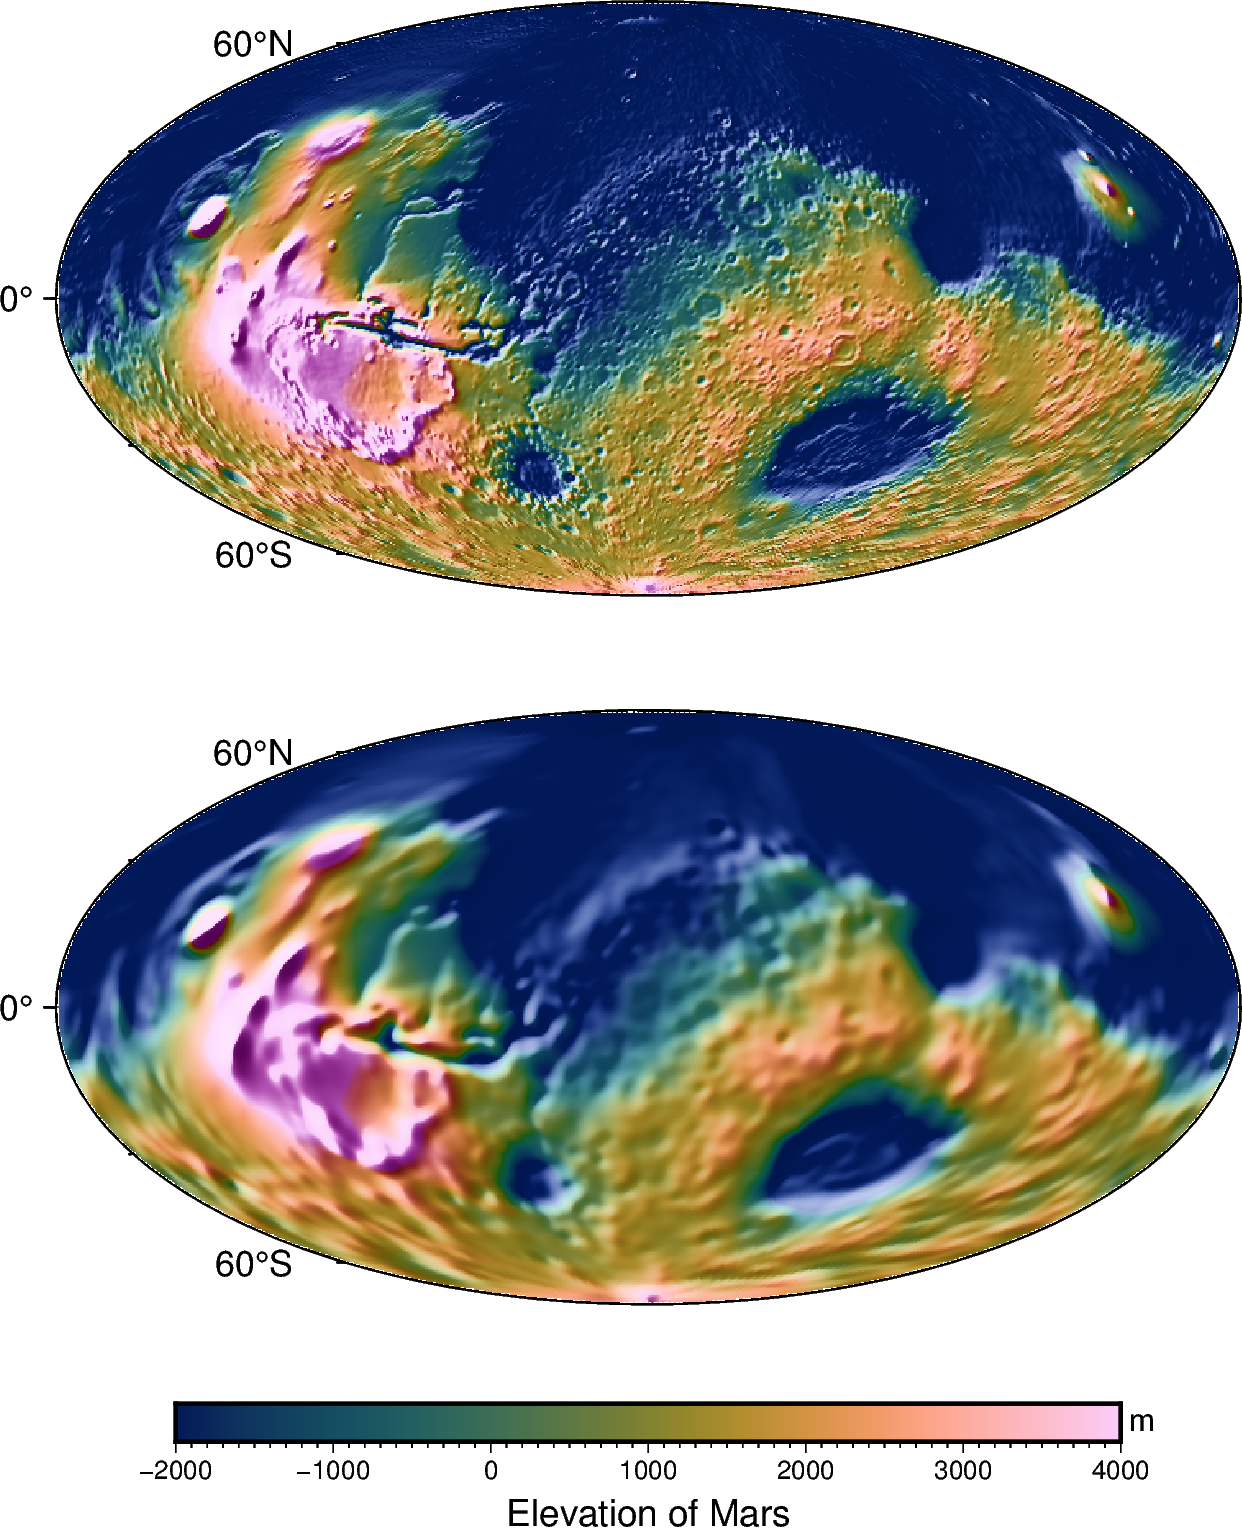
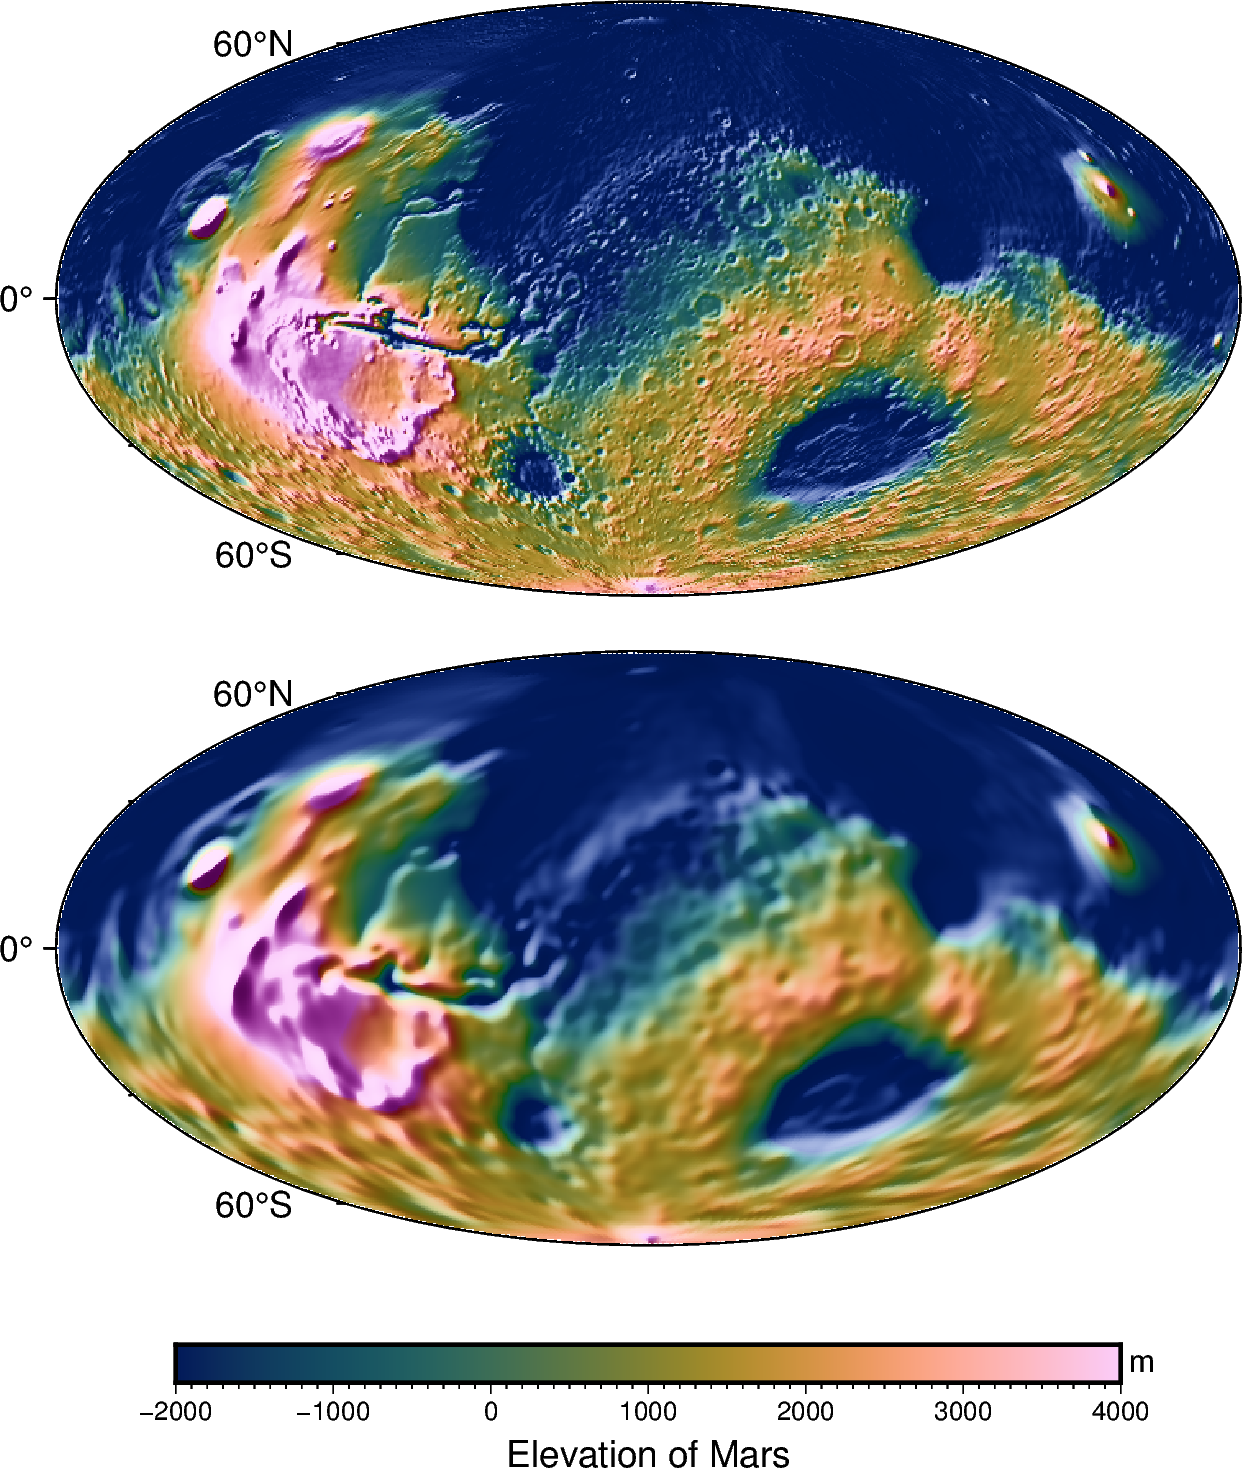
Reduce vertical space between maps

diff --git a/Fig5_PyGMT_xarray.py b/Fig5_PyGMT_xarray.py
@@ -42,10 +42,10 @@ with pygmt.config(PROJ_ELLIPSOID="mars"):
     mars_gradient = mars_filtered.gmt.gradient(azimuth=-45, normalize="t1")
 
 fig = pygmt.Figure()
-pygmt.makecpt(cmap="oleron", series=[-2000, 4000])
+pygmt.makecpt(cmap="batlow", series=[-2000, 4000])
 fig.basemap(region="d", projection="H10c", frame=True)
 fig.grdimage(mars, cmap=True, shading=True)
-fig.shift_origin(yshift="-h-1c")
+fig.shift_origin(yshift="-h-0.5c")
 fig.basemap(region="d", projection="H10c", frame=True)
 fig.grdimage(mars_filtered, cmap=True, shading=mars_gradient)
 fig.colorbar(frame=["xa1000f100+lElevation of Mars", "y+lm"])
